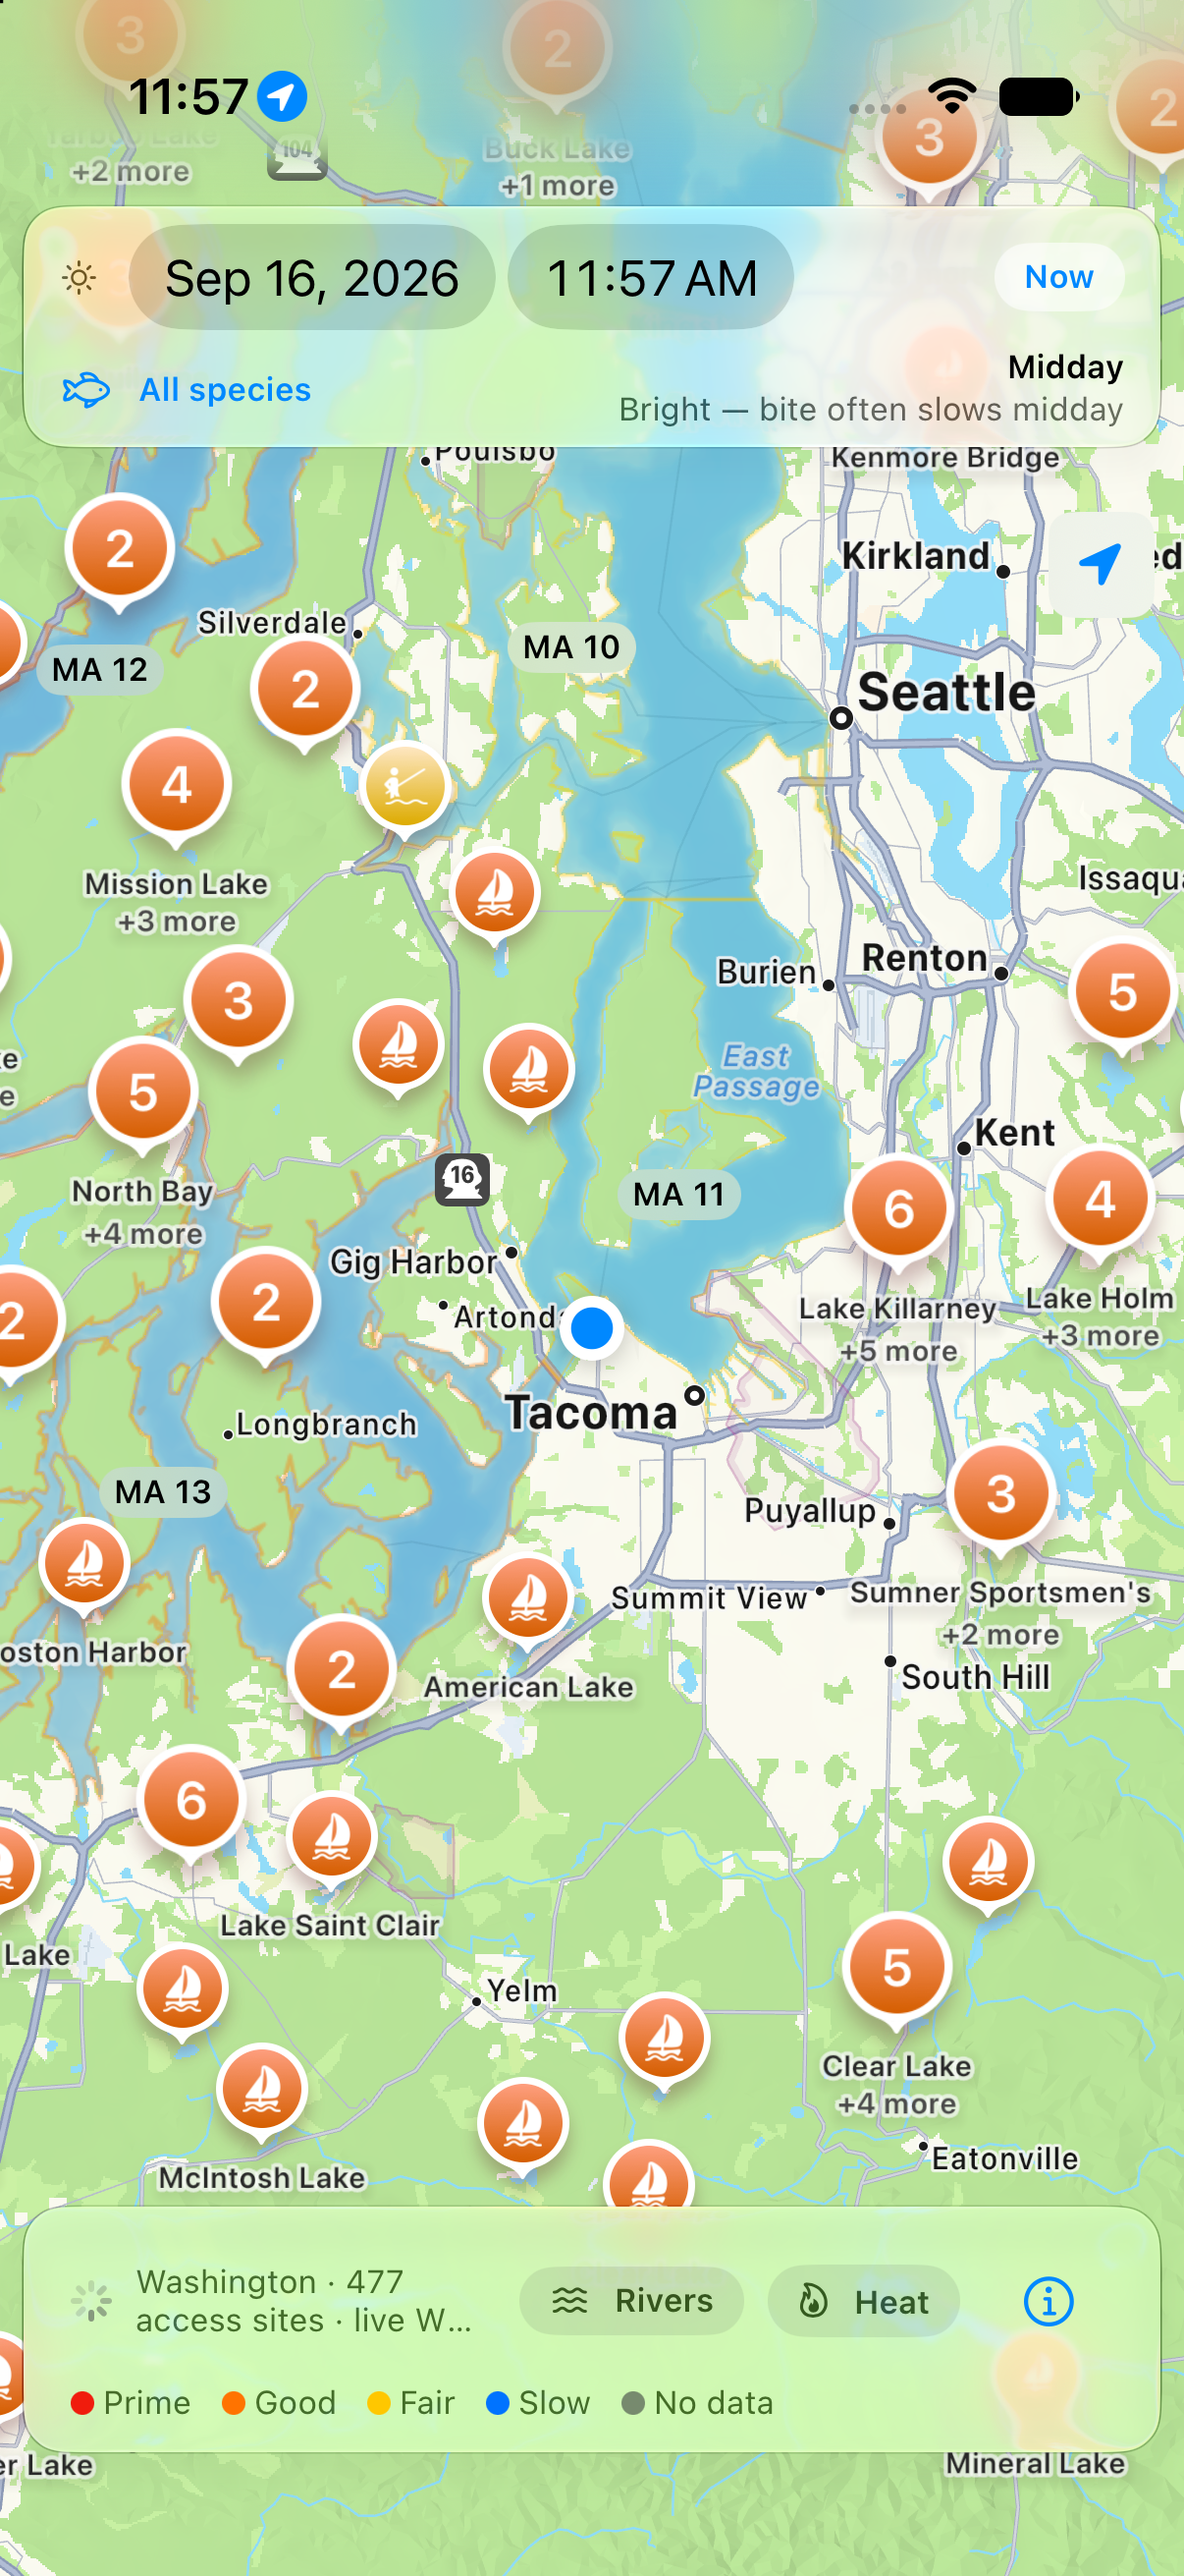
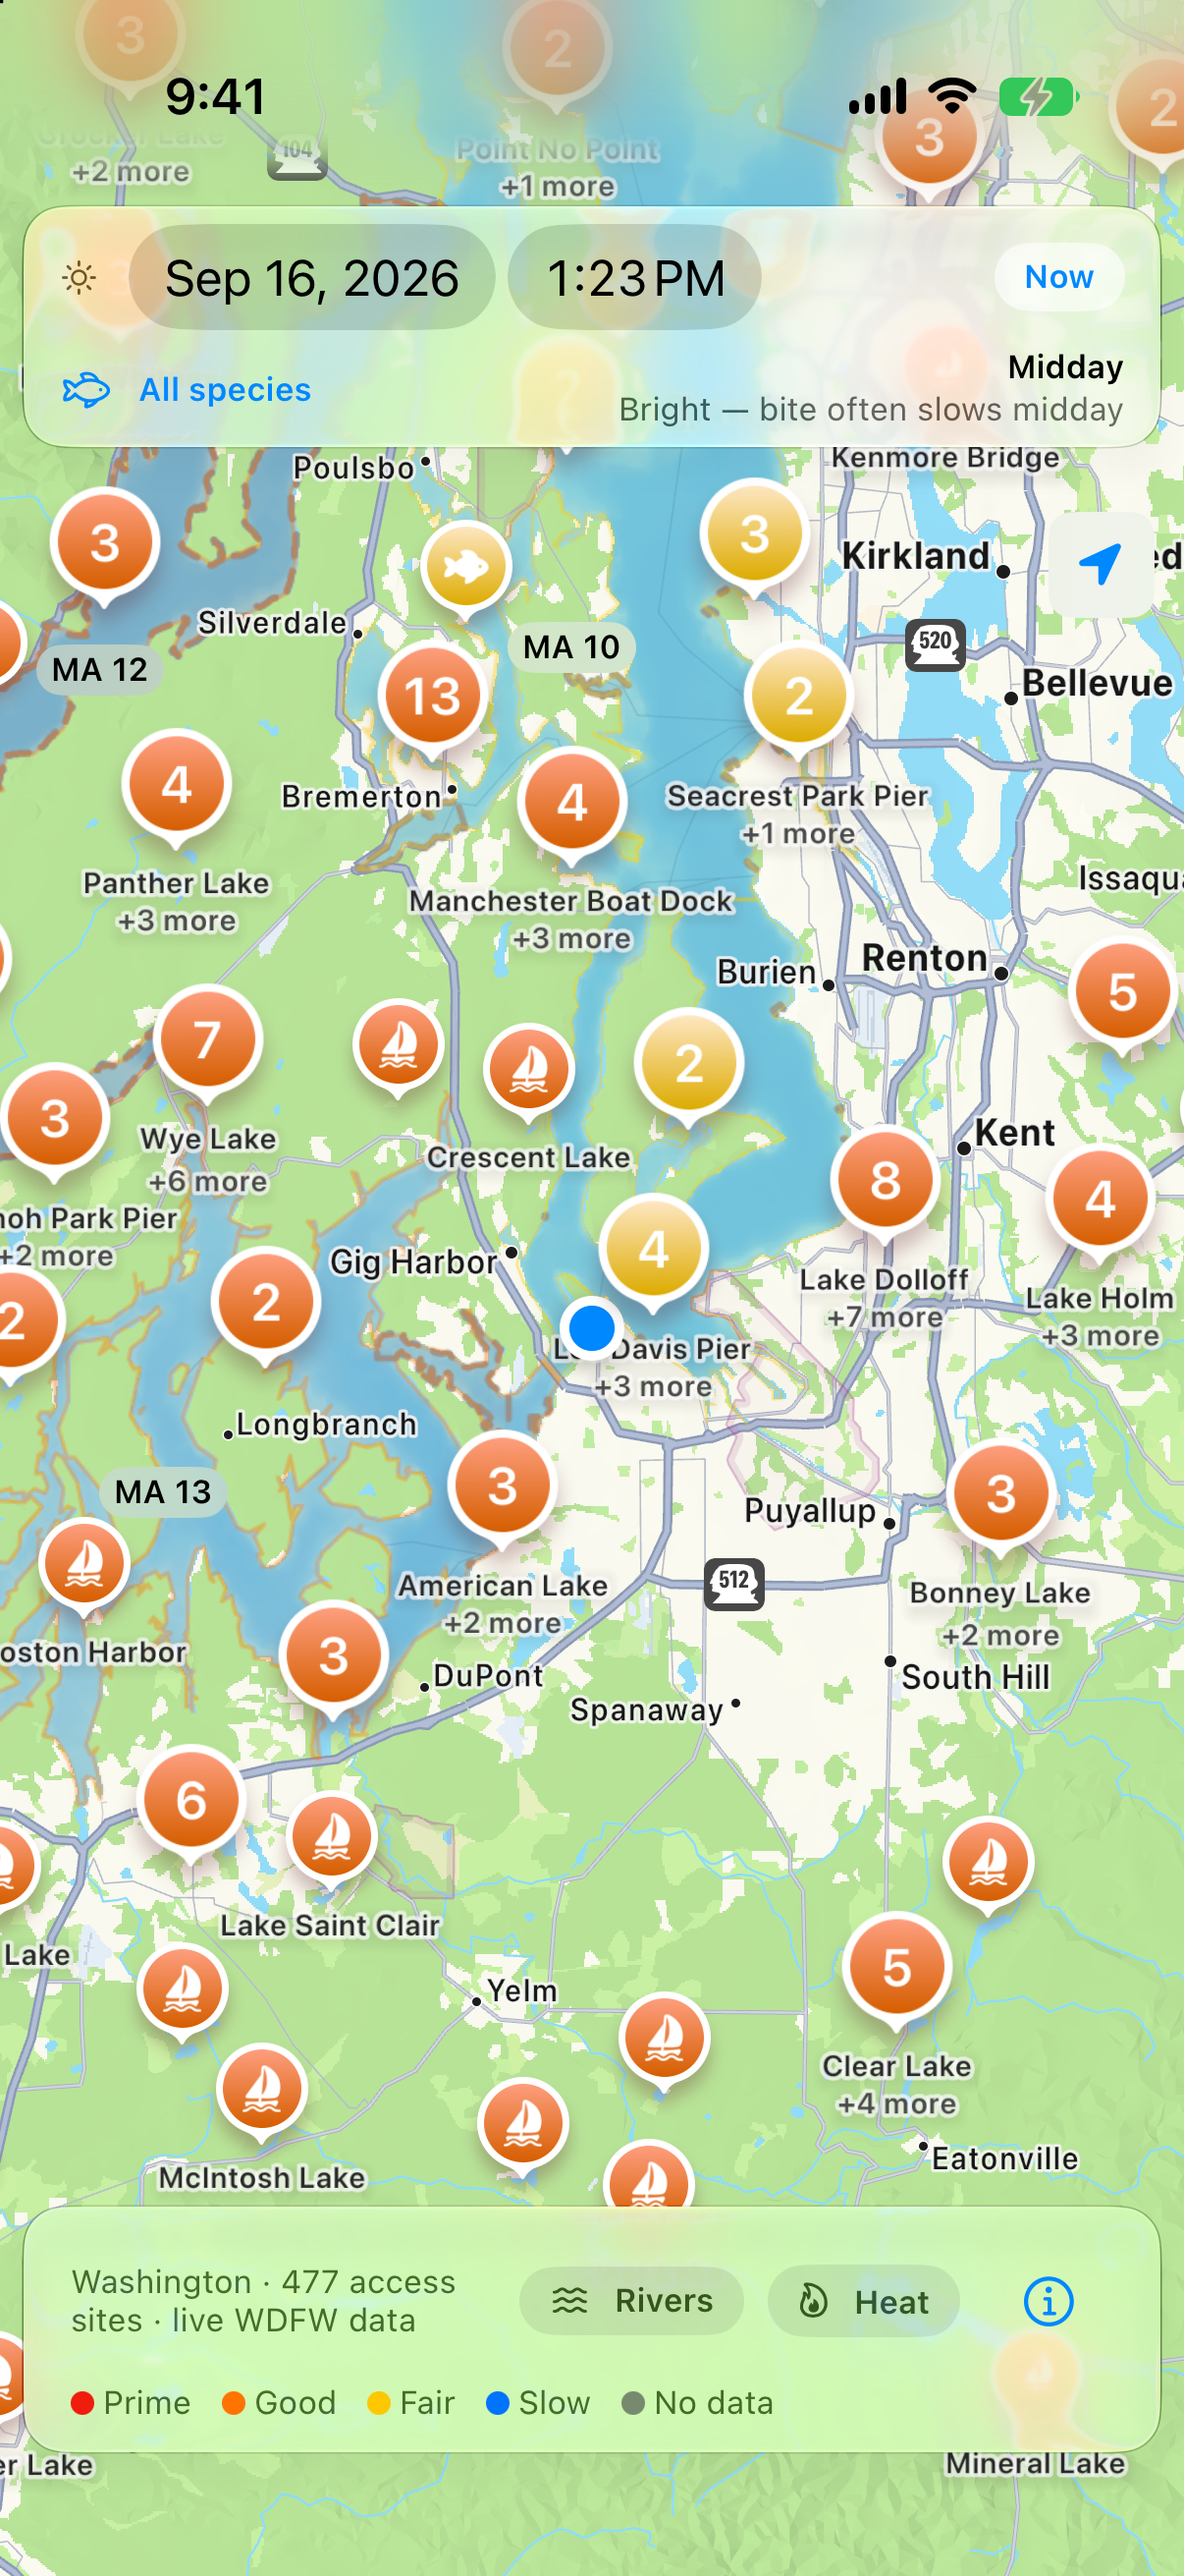
Retake store screenshots with loaded data and a clean status bar
The regional map frame was captured 4 s after launch, mid-load, with the
footer spinner and a truncated site count. The script now overrides the
status bar to 9:41 with full signal and battery and waits 15 s before the
first frame. Both frames retaken from main after the data pass.

Build 2 in App Store Connect predates the data pass, so an archive and
upload of build 3 is filed before submission.

Claude-Session: https://claude.ai/code/session_01KoXv6dbqYLghBJZHPQQCAZ

diff --git a/TASKS.md b/TASKS.md
@@ -7,6 +7,7 @@
 - [ ] App Store screenshots in ASC (0 of 10) — PNGs in docs/app-store/screenshots/; resume when app ready
 - [x] [you] App Privacy questionnaire — Precise Location / App Functionality / not linked / not tracking
 - [x] Archive and upload release build — ASC build 2 (1.0)
+- [ ] Archive and upload build 3 (carries the data pass)
 - [ ] [you] Submit for App Store review — paused until app done
 - [ ] [you] Release to the App Store
 - [ ] Layered OS27 app icon (3 SVG layers, Icon Composer)
